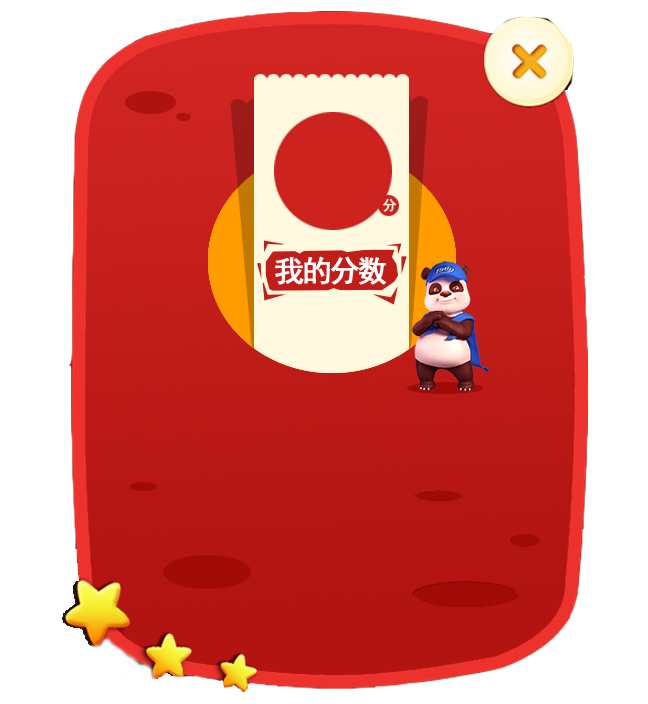
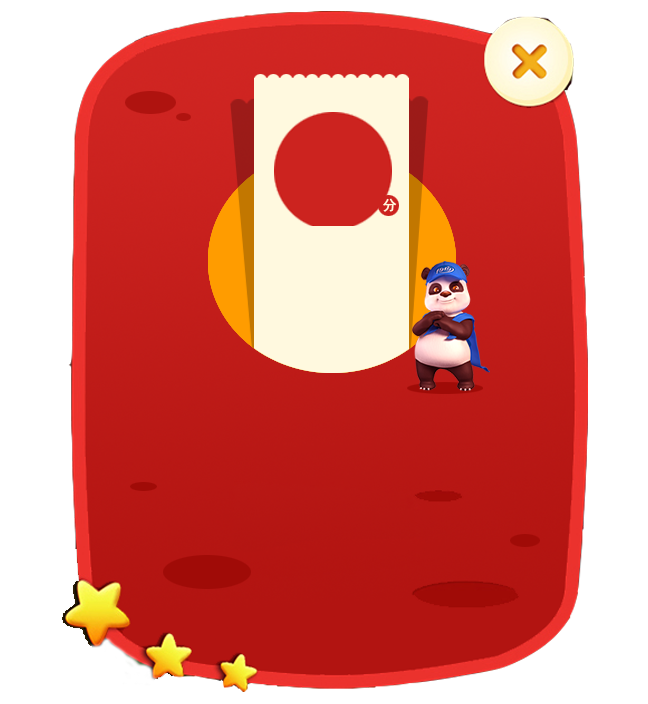
完成流程

Changed region(s): [[0.4012, 0.3125, 0.6481, 0.4375]]

diff --git a/css/style.css b/css/style.css
@@ -134,28 +134,52 @@ html, body{
 }
 
 .score .digit{
-    position: absolute;
-    left: 47%;
+	position: absolute;
+    left: calc(50% - 22px);
     top: 63px;
     font-size: 27px;
     color: #fff;
+    display: inline-block;
+    text-align: center;
+    width: 50px;
+}
+
+.score .score-primary-text{
+	position: absolute;
+    left: calc(50% - 28px);
+    width: 65px;
+    top: 120px;
+}
+.score .score-secondary-box {
+	width: 200px;
+    position: absolute;
+    left: calc(50% - 100px);
+    top: 170px;
+}
+.score .score-secondary-text {
+    width: 100%
+}
+
+.score .btns{
+	bottom: 50px!important;
 }
 
 .score .play.btn{
 	background-image: url('../img/btns/play.png');
-	height: 50px;
+	height: 38px;
 	font-size: 21px;
 }
 
 .score .rank.btn{
 	background-image: url('../img/btns/rank-btn.png');
-	height: 50px;
-	font-size: 26px;
+	height: 38px;
+	font-size: 21px;
+	margin-left: 10px;
 }
 
 .score .share.btn{
 	background-image: url('../img/btns/share.png');
-	height: 50px;
+	height: 38px;
 	font-size: 14px;
 	margin-right: 10px;
 }
@@ -174,9 +198,26 @@ html, body{
 .rank .btns{
     display: flex;
     padding: 10px 30px;
+    text-align: center;
+    justify-content: center;
 }
 .rank img, .rules img{
 	max-width: 95%;
+}
+
+#rules{
+	position: relative;
+}
+
+#rules .btns{
+	position: absolute;
+	bottom: 10px;
+	text-align: center;
+	width: 100%;
+}
+
+#rules .btns a img, #rank .btns a img{
+	height: 50px;
 }
 
 /*

diff --git a/js/app.js b/js/app.js
@@ -85,8 +85,11 @@
 * Description
 */
 angular.module('wine', ['ui.router', 'ngDialog'])
-	.run(['$rootScope', function ($rootScope) {
-		
+	.run(['$rootScope', '$state', 'ngDialog', function ($rootScope, $state, ngDialog) {
+		$rootScope.go = function(state){
+			$state.go(state);
+			ngDialog.closeAll();
+		}
 	}])
 	.config(['$stateProvider', '$urlRouterProvider', function ($stateProvider, $urlRouterProvider) {
 		$urlRouterProvider.otherwise('/');
@@ -99,7 +102,8 @@ angular.module('wine', ['ui.router', 'ngDialog'])
 			})
 			.state('rank', {
 				url: '/rank',
-				templateUrl: 'templates/rank.html'
+				templateUrl: 'templates/rank.html',
+				controller: 'Rank'
 			})
 			.state('rules', {
 				url: '/rules',
@@ -174,4 +178,15 @@ angular.module('wine', ['ui.router', 'ngDialog'])
 			$scope.game.choose(index);
 		}
 	})
+	.controller('Rank', ['$scope', 'ngDialog', '$state', function ($scope, ngDialog, $state) {
+		$scope.show = function(data){
+			ngDialog.open({ 
+				template: 'templates/modals/score.html',
+				closeByDocument: false,
+				className: 'ngdialog-theme-flat ngdialog-theme-custom',
+				showClose: false, 
+				data: data
+			});
+		}
+	}])
 	

diff --git a/templates/modals/result.html b/templates/modals/result.html
@@ -1,11 +1,15 @@
 <div class="score modal">
 	<div class="modal-container">
-		<span class="digit">{{ngDialogData.score}}</span>
-		<img src="img/this-score-text.png" alt="">
 		<img src="img/result.png" alt="" class="modal-bg">
+
+		<span class="digit">{{ngDialogData.score}}</span>
+		<img src="img/this-score-text.png" alt="" class="score-primary-text">
+		<div class="score-secondary-box">
+			<img src="img/highest-score.png" alt="" class="score-secondary-text">
+		</div>
 		<div class="btns">
-			<button type="button" class="share btn" ng-click="closeThisDialog('share')">分享到朋友圈</button>
 			<button type="button" class="play btn" ng-click="closeThisDialog('play')">再玩一次</button>
+			<button type="button" class="rank btn" ng-click="go('rank')">查看排名</button>
 		</div>
 	</div>
 </div>

diff --git a/templates/modals/score.html b/templates/modals/score.html
@@ -4,7 +4,7 @@
 		<img src="img/result.png" alt="" class="modal-bg">
 		<div class="btns">
 			<button type="button" class="share btn" ng-click="closeThisDialog('share')">分享到朋友圈</button>
-			<button type="button" class="play btn" ng-click="closeThisDialog('play')">再玩一次</button>
+			<button type="button" class="rank btn" ng-click="go('rank')">查看排名</button>
 		</div>
 	</div>
 </div>

diff --git a/templates/rank.html b/templates/rank.html
@@ -1,7 +1,7 @@
-<div class="rank">
+<div class="rank" id="rank">
     <img src="img/rank.png" alt="">
     <div class="btns">
-        <a href="" title="" ng-click="myscore()"><img src="img/btns/myscore.png" alt=""></a>
+        <a href="" title="" ng-click="show()"><img src="img/btns/myscore.png" alt=""></a>
         <a href="#rules" title=""><img src="img/btns/see-rules.png" alt=""></a>
     </div>
 </div>

diff --git a/templates/rules.html b/templates/rules.html
@@ -1,3 +1,11 @@
 <div id="rules">
     <img src="img/rules.jpg" alt="">
+    <div class="btns">
+    	<a ui-sref="home" title="">
+    		<img src="img/btns/start.png" alt="">
+    	</a>
+    	<a ui-sref="rank" title="">
+    		<img src="img/btns/rank.png" alt="">
+    	</a>
+    </div>
 </div>
